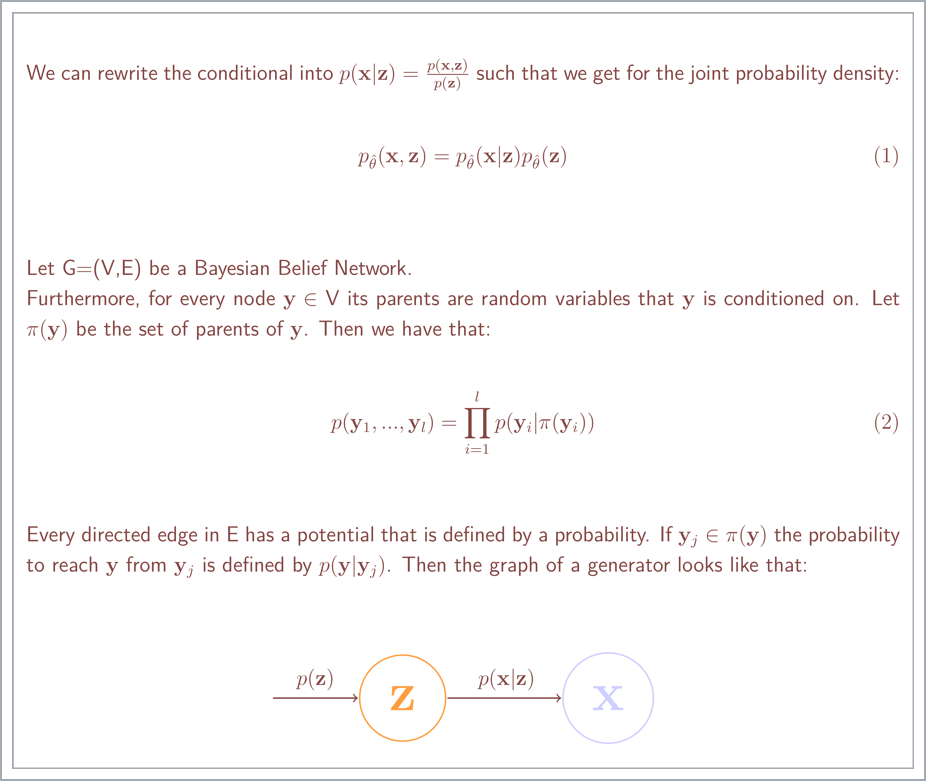
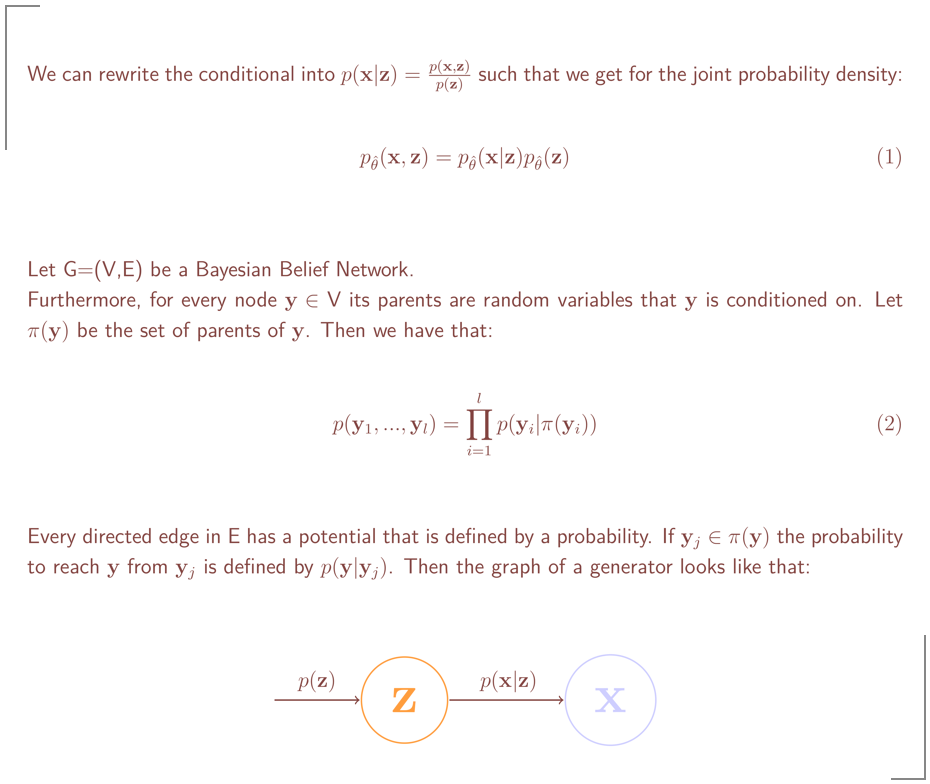
update content for VAE and style

diff --git a/js_functions/set_highs.js b/js_functions/set_highs.js
@@ -85,7 +85,7 @@ function find_bold(parent, txt) {
             // create bold_text
             var bold_span = document.createElement('span');
             bold_span.textContent = bold_text;
-            bold_span.style.color = '#0b3e63'; //  choice : e97977 , orange: fea11d , gray 6f6261, light red : b48d8c , light orange: f1c17d
+            bold_span.style.color = '#b48d8c'; //  choice : e97977 , orange: fea11d , gray 6f6261, light red : b48d8c , light orange: f1c17d
             bold_span.style.fontWeight = "900";
             parent.appendChild(bold_span);
 
@@ -107,7 +107,7 @@ function find_color(parent, txt) {
             // create color_text
             var color_span = document.createElement('span');
             color_span.textContent = color_text;
-            color_span.style.color = '#b48d8c'; // dark blue : 0b3e63
+            color_span.style.color = '#5dbde4'; // dark blue : 0b3e63
             parent.appendChild(color_span);
 
             return txt.substring(indexOfColorEnd + 3, txt.length);

diff --git a/constructor/latex_extractor.py b/constructor/latex_extractor.py
@@ -2,7 +2,7 @@ import pypdfium2 as pdfium
 from PIL import Image
 from pathlib import Path
 import numpy as np
-import copy as c
+import fitz
 
 
 def main(article, file):
@@ -10,7 +10,7 @@ def main(article, file):
     in_path = f'{p}/_latex_pdf/{article}/{file}.pdf'
     out_path = f'{p.parent}/images/{article}/{file}' + '.png'
 
-    import fitz
+    # out_path = f'{p.parent}/images/{article}/test9' + '.png'
 
     doc = fitz.open(in_path)
     page = doc.load_page(0)
@@ -47,9 +47,6 @@ def get_final_img(img_path):
     img = crop_img(pil_image)
     pil_image = Image.fromarray(img)
 
-    # pil_image = get_background(pil_image, 74, 5, 7)
-    # 51, 19, 19
-
     width, height = pil_image.size
 
     if width != 900:
@@ -60,6 +57,92 @@ def get_final_img(img_path):
     pil_image.save(img_path, quality=100)
     pil_image = Image.open(img_path).convert('RGB')
 
+    # Last_image = get_thick_boundary(pil_image)
+    Last_image = get_nice_boundary(pil_image)
+
+    Last_image.save(img_path, quality=100)
+
+
+def get_nice_boundary(pil_image):
+    width, height = pil_image.size
+
+    # image = Image.new('RGBA', size=(width + 30, height + 30), color=(255, 255, 255))
+
+    back_img = create_nice_boundary(width + 30, height + 30)
+    back_img.paste(pil_image, (15, 15))
+
+    return back_img
+
+
+def create_nice_boundary(width, height):
+    R_C = np.full((height, width), 255, dtype=np.uint8)
+    G_C = np.full((height, width), 255, dtype=np.uint8)
+    B_C = np.full((height, width), 255, dtype=np.uint8)
+
+    for channel in [R_C, G_C, B_C]:
+        for i in range(5, 150):
+            for j in range(5, 7):
+                channel[i][j] = 98
+                channel[height - i][width - j] = 98
+
+                """channel[height - i][j] = 98
+                channel[i][width - j] = 98"""
+
+        for i in range(5, 7):
+            for j in range(5, 40):
+                channel[i][j] = 98
+                channel[height - i][width - j] = 98
+
+                """channel[i][width - j] = 98
+                channel[height - i][j] = 98"""
+
+    R_C = np.expand_dims(R_C, axis=2)
+    G_C = np.expand_dims(G_C, axis=2)
+    B_C = np.expand_dims(B_C, axis=2)
+
+    back_img = np.concatenate((R_C, G_C, B_C), axis=2)
+    return Image.fromarray(back_img)
+
+
+def create_doubled_nice_boundary(width, height):
+    R_C = np.full((height, width), 255, dtype=np.uint8)
+    G_C = np.full((height, width), 255, dtype=np.uint8)
+    B_C = np.full((height, width), 255, dtype=np.uint8)
+
+    for channel in [R_C, G_C, B_C]:
+        for i in range(5, height - 5):
+            for j in range(5, 7):
+                channel[i][j] = 98
+                channel[height - i][width - j] = 98
+
+                if j == 5:
+                    channel[i][4 + j] = 98
+                    channel[height - i][width - (4 + j)] = 98
+
+        for i in range(5, 7):
+            for j in range(5, 40):
+                channel[i][j] = 98
+                channel[height - i][width - j] = 98
+
+                channel[i][width - j] = 98
+                channel[height - i][j] = 98
+
+                if i == 5:
+                    channel[4 + i][j] = 98
+                    channel[height - (4 + i)][width - j] = 98
+
+                    channel[4 + i][width - j] = 98
+                    channel[height - (4 + i)][j] = 98
+
+    R_C = np.expand_dims(R_C, axis=2)
+    G_C = np.expand_dims(G_C, axis=2)
+    B_C = np.expand_dims(B_C, axis=2)
+
+    back_img = np.concatenate((R_C, G_C, B_C), axis=2)
+    return Image.fromarray(back_img)
+
+
+def get_thick_boundary(pil_image):
     width, height = pil_image.size
 
     Last_image = Image.new('RGBA', size=(width + 2, height + 2), color=(137, 145, 156))
@@ -75,12 +158,7 @@ def get_final_img(img_path):
     Last_image = Image.new('RGBA', size=(width + 4, height + 4), color=(137, 145, 156))
     Last_image.paste(image, (2, 2))
 
-    Last_image.show()
-
-    """p = Path(__file__).parent
-    out_path = f'{p.parent}/images/2023-7-6-VAE/test' + '.png'"""
-
-    Last_image.save(img_path, quality=100)
+    return Last_image
 
 
 def get_lower_bound(img):
@@ -111,10 +189,10 @@ def crop_img(img):
     crop_height, crop_width = get_lower_bound(img)
     top, left = get_upper_bound(img)
 
-    bottom = crop_height - 5
-    right = crop_width - 5
+    bottom = crop_height - 10
+    right = crop_width - 10
 
-    return img[top + 5: bottom, left + 5: right, :]
+    return img[top + 10: bottom, left + 10: right, :]
 
 
 def paste_layer(article, file):
@@ -147,9 +225,9 @@ def get_background(img, r: int, g: int, b: int):
 
 if __name__ == "__main__":
     for i in range(1, 14):
-        if i != 3:
-            paste_layer('2023-7-6-VAE', f'eq{i}')
+            if i != 3:
+                main('2023-7-6-VAE', f'eq{i}')
+                paste_layer('2023-7-6-VAE', f'eq{i}')
 
-    # paste_layer('2023-7-6-VAE', f'eq1')
-
-
+    # main('2023-7-6-VAE', f'eq9')
+    # paste_layer('2023-7-6-VAE', f'test9')

diff --git a/_posts/2023-7-6-VAE.md b/_posts/2023-7-6-VAE.md
@@ -5,7 +5,7 @@ title: Mathematical Explanation<br/>
 intro: This article was created for those who would like to understand more about the mathematical reasoning behind a model such as VAE. For this purpose I am introducing a range of different concepts ...
 
 start: This article was created for those who would like to understand more about the mathematical reasoning behind a model such as VAE. For this purpose I am introducing a range of different concepts in statistics that help understand the decision-making of this paper's authors. I sum- marized only the most relevant mathematical statements for this post of each topic. To make a VAE more comprehensive I emphasized 
-  on the modeling of it and core concepts to computationally realize it. Aditionally, I used day-to-day examples and visualisations that help building an intuition. If you have any questions or suggestions  regarding this topic feel free to contact me.
+  on the modeling of it and core concepts to computationally realize it. Aditionally, I used day-to-day examples and visualisations that help building an intuition. If you have any questions or suggestions regarding this topic feel free to contact me.
 
 chapters: ["Introduction",
            "Modeling",
@@ -15,6 +15,7 @@ chapters: ["Introduction",
            "The Evidence Lower Bound",
            "Monte Carlo Estimate",
            "Reparameterization Trick",
+           "The Gradient",
            "Sources"]
 ---
 
@@ -25,9 +26,10 @@ chapters: ["Introduction",
 The following topics are necessary to understand this article:
 - Basic probability theory
 - Basic statistics
+- Basic Deep Learning
 
 I will recap some necessary core concepts from the following topics:
-- MLE, MAP estimator & EM
+- MLE, MAP
 - Bayesian inference
 - Variational inference
 - Monte Carlo Estimate
@@ -43,10 +45,14 @@ If you are keen to know more details about each topic I can suggest:
 
 {% include chapter.html name="Introduction" %}
 
+This article elaborates on relevant concepts and approaches mentioned in the paper [Auto-Encoding Variational Bayes by Diederik P. Kingma, Max Welling](https://arxiv.org/pdf/1312.6114.pdf).
+
+<br/>
+
 To understand the architecture of a VAE, a generator, and its mathematical model, we will need to determine first the goal of such a model type and its 
 relationship to a discriminator. <br/>
 With a discriminative model we want to make a prediction about an attribute based on various observations. Such a model tries to learn the mapping from that data 
-to this attribute. To do so it tries to find features of these observations that has the highest correlation with that attribute.
+to this attribute. (need to update the following) ***To do so it tries to find features of these observations that has the highest correlation with that attribute.***
 But correlation is not causation. Imagine, when I was a little child, I always got upset when my mom bought apples that had some brown spots.
 She always answered: "No, they are good! Those are just some injuries." 
 Sure, as if apples are like humans and could have "injuries" - you are just trying to make these cheap apples palatable, was my response back then.
@@ -56,11 +62,7 @@ Coming back to our problem, we could collect observations, like skin color of an
 And, even though my mom was right, brown spots are usually a good indication since some infecting spores of fungi that occur in rotten apples create a brown coloration.
 A discriminator would be able to find that correlation, like me as a child. 
 
-<br/> Unfortunately, such a model will eliminate also apples that are healthy to consume but just had an injury. You could argue now, that the correlation 
-between the browning of apples and its decay cannot be that high compared to the correlation between the wrinkling of skin and the level of decay.
-So we simply take the latter feature to make such a prediction. Though, if we have a dataset where every brown apple is also rotten we couldn't 
-differentiate between the relevance of those two features. And typically we choose to build such models to make predictions that we cannot do by our-self, hence, in a realistic problem 
-we wouldn't have that knowledge.
+<br/> Unfortunately, such a model will eliminate also apples that are healthy to consume but just had an injury.
 Because of those instances, a model that can learn the causal relationship is of course more precise. 
 To achieve that it would have to learn the generating process of rotten apples. 
 
@@ -106,7 +108,7 @@ function I decided to stick with their notation.
 <br/>
 
 {% include highlights.html 
-content_txt="Some of you may know that /c/finding a proper data representation/c/, that includes extracting relevant features of the data, will increase the chances 
+content_txt="Some of you may know that /c/finding a good data representation/c/, that includes extracting relevant features of the data, will increase the chances 
 of training a good discriminator. Typical methods include the use of an auto-encoder or principal component analysis since such a representation is more expressive.
 A new representation of a datapoint is called **latent feature vector**. The word, latent, stems from the fact that the space of latent features in a DL model for 
 data representation is hidden from us. In my apple example from before we could say that the level of decay is also a latent feature.
@@ -116,6 +118,8 @@ data representation is hidden from us. In my apple example from before we could 
 <br/>
 
 Let's first formulate that mathematically:
+
+<br>
 
 ![_config.yml]({{ site.baseurl }}/images/2023-7-6-VAE/eq1.png)
 
@@ -242,12 +246,12 @@ Either this integral has no closed-form solution due to the complexity of the da
 
 {% include highlights.html 
 content_txt="
-Instead, **variational inference** will bring us closer to the solution. It is /c/a method that approximates probability density functions through optimization/c/. The basic approach is to create a family of possible densities and with a distance measure to find the density from this family that is the closest to the one we want to approximate.
+Instead, **variational inference** will bring us closer to the solution. It is /c/a method that approximates the posterior distribution through optimization/c/. The basic approach is to create a family of possible densities and with a distance measure to find the density from this family that is the closest to the one we want to approximate.
 "%}
 
 <br/>
 
-![_config.yml]({{ site.baseurl }}/images/2023-7-6-VAE/eq9.png)
+![_config.yml]({{ site.baseurl }}/images/2023-7-6-VAE/test9.png)
 
 <br/>
 
@@ -281,15 +285,15 @@ Even though the Kullback-Leibner Divergence is not computable we can use it afte
 <br/>
 
 By adding the log(p(x)) term to the Kullback-Leibner Divergence we eliminate log(p(x)) from our objective.
-With some further transformations we can rewrite that function to obtain an easier interpretation:
+With some further transformations we obtain an objective that we can use for our model.
 
 <br/>
 
 ![_config.yml]({{ site.baseurl }}/images/2023-7-6-VAE/eq12.png)
 
 <br/>
-
-The name originates from the following property:
+With that new expression we only have to work with the prior, likelihood and posterior.
+From the following property we can see the reason why it is called the evidence lower bound.
 
 <br/>
 
@@ -306,9 +310,10 @@ bounded by zero from above.
 
 ![_config.yml]({{ site.baseurl }}/images/2023-7-6-VAE/animation.gif)
 
-<br>
-For complex neural network this integral might not be possible to compute. Therefore, we can use an estimate. In the next section I will show 
-the estimator that Diederik P. Kingma and Max Welling proposed.
+<br/>
+
+To get the maximizer of the ELBO via stochastic gradient decent we need to differentiate it w.r.t. the variational parameters φ and generative parameters θ.
+That can be a bit tricky as we will see in the next chapters.
 
 ![_config.yml]({{ site.baseurl }}/images/separator.png)
 
@@ -316,9 +321,16 @@ the estimator that Diederik P. Kingma and Max Welling proposed.
 
 <br/>
 
-{% include chapter.html name="Monte Carlo Estimator" %}
+{% include chapter.html name="Monte Carlo Estimate" %}
 
 sec 2.4.2
+
+zitat:
+the strategy is to obtain Monte Carlo estimates of the gradient of the variational objective and to use stochastic optimization to fit the variational parameter. (end)
+there are two main strategies: black-box VI and reparameterization. 
+zitat: But the gradient estimates of BBVI typically suffer from high variance, which can lead to slow convergence. (end)
+hence, the second approach is recommended. zitat: They typically need only
+one Monte Carlo sample to estimate a noisy gradient. 
 
 <br/>
 
@@ -329,15 +341,27 @@ sec 2.4.2
 
 {% include chapter.html name="Reparameterization Trick" %}
 
-linear combination of RV: pi_1, ..., pi_n : pi_1 * P(X1) + ... + pi_n * P(X2)
-mixture model but then all have differnt parameters
+from script : VI where each data-case has a separate variational distribution, which is inefficient for large data-sets. The recognition model uses
+one set of parameters to model the relation between input and latent variables and as such is called “amortized inference”.
 
+<br>
 
-from script : VI where each data-case has a separate variational distribu-
-tion, which is inefficient for large data-sets. The recognition model uses
-one set of parameters to model the relation between input and latent
-variables and as such is called “amortized inference”.
+zitat:
+This approach reparameterizes the latent variable z in terms of a set of auxiliary random
+variables whose distributions do not depend on the variational parameters. Reparameterization gradients exhibit lower variance than the other gradients estimate. They typically need only
+one Monte Carlo sample to estimate a noisy gradient, which leads to fast algorithms. Further, for some
+models, their variance can be bounded (Fan et al., 2015). However, reparameterization is not as generic
+as bbvi. It is typically used with Gaussian variational distributions and does not easily generalize to
+other common distributions, such as the gamma or beta, without using further approximations. (See
+Knowles (2015) for an alternative approach to deal with the gamma distribution.)
 
+<br>
+
+zitat: 
+Francisco J. R. Ruiz and David M. Blei developed the generalized reparameterization (g-rep) gradient, a new method to extend reparameterization to other variational distributions. 
+The main idea is to define an invertible transformation of the
+latent variables such that the distribution of the transformed variables is only weakly governed by the
+variational parameters.
 <br/>
 
 ![_config.yml]({{ site.baseurl }}/images/separator.png)
@@ -360,6 +384,7 @@ sec 2.3.
 
 - [Auto-Encoding Variational Bayes by Diederik P. Kingma, Max Welling](https://arxiv.org/pdf/1312.6114.pdf)
 - [Variational Inference: A Review for Statisticians by David M. Blei](https://arxiv.org/pdf/1601.00670.pdf)
+- [The Generalized Reparameterization Gradient by Francisco J. R. Ruiz and David M. Blei](https://proceedings.neurips.cc/paper_files/paper/2016/file/f718499c1c8cef6730f9fd03c8125cab-Paper.pdf)
 - [Image Super-Resolution With Deep Variational Autoencoders by Darius Chira, Ilian Haralampiev](https://arxiv.org/pdf/2203.09445.pdf)
 - [An Introduction to Variational Autoencoders by Diederik P. Kingma, Max Welling](https://arxiv.org/pdf/1906.02691.pdf)
 
